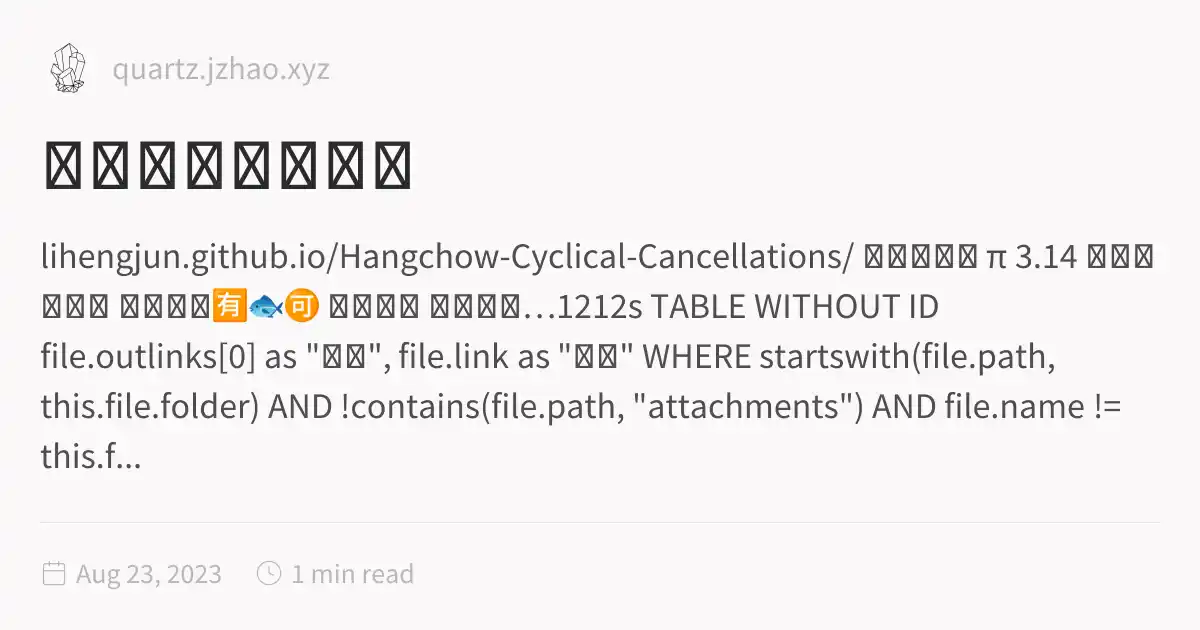
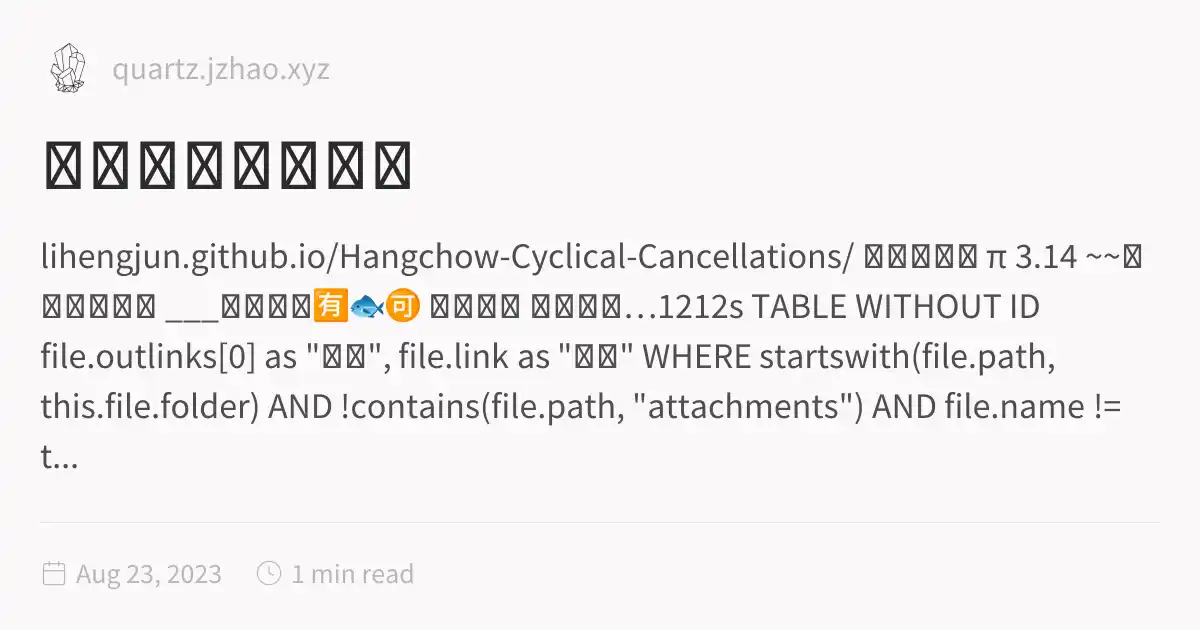
deploy: lihengjun/my-obsidian-vault@0befaab0dc9113b62a4902e7fe4200153a80474c

diff --git a/news/index.html b/news/index.html
@@ -116,6 +116,6 @@ pre:hover > .expand-button {
   padding: 0 12px;
   font-size: 14px;
 }
[2 lines of base64/hex data omitted]
 </script><script type="module">function f(i,e){if(!i)return;function r(o){o.target===this&&(o.preventDefault(),o.stopPropagation(),e())}function t(o){o.key.startsWith("Esc")&&(o.preventDefault(),e())}i?.addEventListener("click",r),window.addCleanup(()=>i?.removeEventListener("click",r)),document.addEventListener("keydown",t),window.addCleanup(()=>document.removeEventListener("keydown",t))}function y(i){for(;i.firstChild;)i.removeChild(i.firstChild)}var h=class{constructor(e,r){this.container=e;this.content=r;this.setupEventListeners(),this.setupNavigationControls(),this.resetTransform()}isDragging=!1;startPan={x:0,y:0};currentPan={x:0,y:0};scale=1;MIN_SCALE=.5;MAX_SCALE=3;cleanups=[];setupEventListeners(){let e=this.onMouseDown.bind(this),r=this.onMouseMove.bind(this),t=this.onMouseUp.bind(this),o=this.resetTransform.bind(this);this.container.addEventListener("mousedown",e),document.addEventListener("mousemove",r),document.addEventListener("mouseup",t),window.addEventListener("resize",o),this.cleanups.push(()=>this.container.removeEventListener("mousedown",e),()=>document.removeEventListener("mousemove",r),()=>document.removeEventListener("mouseup",t),()=>window.removeEventListener("resize",o))}cleanup(){for(let e of this.cleanups)e()}setupNavigationControls(){let e=document.createElement("div");e.className="mermaid-controls";let r=this.createButton("+",()=>this.zoom(.1)),t=this.createButton("-",()=>this.zoom(-.1)),o=this.createButton("Reset",()=>this.resetTransform());e.appendChild(t),e.appendChild(o),e.appendChild(r),this.container.appendChild(e)}createButton(e,r){let t=document.createElement("button");return t.textContent=e,t.className="mermaid-control-button",t.addEventListener("click",r),window.addCleanup(()=>t.removeEventListener("click",r)),t}onMouseDown(e){e.button===0&&(this.isDragging=!0,this.startPan={x:e.clientX-this.currentPan.x,y:e.clientY-this.currentPan.y},this.container.style.cursor="grabbing")}onMouseMove(e){this.isDragging&&(e.preventDefault(),this.currentPan={x:e.clientX-this.startPan.x,y:e.clientY-this.startPan.y},this.updateTransform())}onMouseUp(){this.isDragging=!1,this.container.style.cursor="grab"}zoom(e){let r=Math.min(Math.max(this.scale+e,this.MIN_SCALE),this.MAX_SCALE),t=this.content.getBoundingClientRect(),o=t.width/2,n=t.height/2,c=r-this.scale;this.currentPan.x-=o*c,this.currentPan.y-=n*c,this.scale=r,this.updateTransform()}updateTransform(){this.content.style.transform=`translate(${this.currentPan.x}px, ${this.currentPan.y}px) scale(${this.scale})`}resetTransform(){this.scale=1;let e=this.content.querySelector("svg");this.currentPan={x:e.getBoundingClientRect().width/2,y:e.getBoundingClientRect().height/2},this.updateTransform()}},C=["--secondary","--tertiary","--gray","--light","--lightgray","--highlight","--dark","--darkgray","--codeFont"],E;document.addEventListener("nav",async()=>{let e=document.querySelector(".center").querySelectorAll("code.mermaid");if(e.length===0)return;E||=await import("https://cdnjs.cloudflare.com/ajax/libs/mermaid/11.4.0/mermaid.esm.min.mjs");let r=E.default,t=new WeakMap;for(let n of e)t.set(n,n.innerText);async function o(){for(let s of e){s.removeAttribute("data-processed");let a=t.get(s);a&&(s.innerHTML=a)}let n=C.reduce((s,a)=>(s[a]=window.getComputedStyle(document.documentElement).getPropertyValue(a),s),{}),c=document.documentElement.getAttribute("saved-theme")==="dark";r.initialize({startOnLoad:!1,securityLevel:"loose",theme:c?"dark":"base",themeVariables:{fontFamily:n["--codeFont"],primaryColor:n["--light"],primaryTextColor:n["--darkgray"],primaryBorderColor:n["--tertiary"],lineColor:n["--darkgray"],secondaryColor:n["--secondary"],tertiaryColor:n["--tertiary"],clusterBkg:n["--light"],edgeLabelBackground:n["--highlight"]}}),await r.run({nodes:e})}await o(),document.addEventListener("themechange",o),window.addCleanup(()=>document.removeEventListener("themechange",o));for(let n=0;n<e.length;n++){let v=function(){let g=l.querySelector("#mermaid-space"),m=l.querySelector(".mermaid-content");if(!m)return;y(m);let w=c.querySelector("svg").cloneNode(!0);m.appendChild(w),l.classList.add("active"),g.style.cursor="grab",u=new h(g,m)},M=function(){l.classList.remove("active"),u?.cleanup(),u=null},c=e[n],s=c.parentElement,a=s.querySelector(".clipboard-button"),d=s.querySelector(".expand-button"),p=window.getComputedStyle(a),L=a.offsetWidth+parseFloat(p.marginLeft||"0")+parseFloat(p.marginRight||"0");d.style.right=`calc(${L}px + 0.3rem)`,s.prepend(d);let l=s.querySelector("#mermaid-container");if(!l)return;let u=null;d.addEventListener("click",v),f(l,M),window.addCleanup(()=>{u?.cleanup(),d.removeEventListener("click",v)})}});
 </script><script src="https://cdn.jsdelivr.net/npm/katex@0.16.11/dist/contrib/copy-tex.min.js" type="application/javascript"></script><script src="../postscript.js" type="module"></script></html>

diff --git a/other.html b/other.html
@@ -116,7 +116,7 @@ pre:hover > .expand-button {
   padding: 0 12px;
   font-size: 14px;
 }
[2 lines of base64/hex data omitted]
                 s-3.542,0.634-4.898,1.688l-7.669-7.669C16.785,10.424,17,9.74,17,9c0-2.206-1.794-4-4-4S9,6.794,9,9s1.794,4,4,4
                 c0.74,0,1.424-0.215,2.019-0.567l7.669,7.669C21.634,21.458,21,23.154,21,25s0.634,3.542,1.688,4.897L10.024,42.562
                 C8.958,41.595,7.549,41,6,41c-3.309,0-6,2.691-6,6s2.691,6,6,6s6-2.691,6-6c0-1.035-0.263-2.009-0.726-2.86l12.829-12.829

diff --git a/index.html b/index.html
@@ -1,5 +1,5 @@
 <!DOCTYPE html>
-<html lang="en"><head><title>杭州城幹支戳蓃集</title><meta charset="utf-8"/><link rel="preconnect" href="https://fonts.googleapis.com"/><link rel="preconnect" href="https://fonts.gstatic.com"/><link rel="stylesheet" href="https://fonts.googleapis.com/css2?family=Schibsted Grotesk:wght@400;700&amp;family=Source Sans Pro:ital,wght@0,400;0,600;1,400;1,600&amp;family=IBM Plex Mono:wght@400;600&amp;display=swap"/><link rel="preconnect" href="https://cdnjs.cloudflare.com" crossorigin="anonymous"/><meta name="viewport" content="width=device-width, initial-scale=1.0"/><meta name="og:site_name" content="Quartz 4"/><meta property="og:title" content="杭州城幹支戳蓃集"/><meta property="og:type" content="website"/><meta name="twitter:card" content="summary_large_image"/><meta name="twitter:title" content="杭州城幹支戳蓃集"/><meta name="twitter:description" content="lihengjun.github.io/Hangchow-Cyclical-Cancellations/ 天涯浮生录 π 3.14 了不起的问题 从来没有🈶🐟🉑 内容标题 你的内容…1212s TABLE WITHOUT ID file.outlinks[0] as &quot;图片&quot;, file.link as &quot;笔记&quot; WHERE startswith(file.path, this.file.folder) AND !contains(file.path, &quot;attachments&quot;) AND file.name != this.f..."/><meta property="og:description" content="lihengjun.github.io/Hangchow-Cyclical-Cancellations/ 天涯浮生录 π 3.14 了不起的问题 从来没有🈶🐟🉑 内容标题 你的内容…1212s TABLE WITHOUT ID file.outlinks[0] as &quot;图片&quot;, file.link as &quot;笔记&quot; WHERE startswith(file.path, this.file.folder) AND !contains(file.path, &quot;attachments&quot;) AND file.name != this.f..."/><meta property="og:image:alt" content="lihengjun.github.io/Hangchow-Cyclical-Cancellations/ 天涯浮生录 π 3.14 了不起的问题 从来没有🈶🐟🉑 内容标题 你的内容…1212s TABLE WITHOUT ID file.outlinks[0] as &quot;图片&quot;, file.link as &quot;笔记&quot; WHERE startswith(file.path, this.file.folder) AND !contains(file.path, &quot;attachments&quot;) AND file.name != this.f..."/><meta property="twitter:domain" content="quartz.jzhao.xyz"/><meta property="og:url" content="https://quartz.jzhao.xyz/index"/><meta property="twitter:url" content="https://quartz.jzhao.xyz/index"/><link rel="icon" href="./static/icon.png"/><meta name="description" content="lihengjun.github.io/Hangchow-Cyclical-Cancellations/ 天涯浮生录 π 3.14 了不起的问题 从来没有🈶🐟🉑 内容标题 你的内容…1212s TABLE WITHOUT ID file.outlinks[0] as &quot;图片&quot;, file.link as &quot;笔记&quot; WHERE startswith(file.path, this.file.folder) AND !contains(file.path, &quot;attachments&quot;) AND file.name != this.f..."/><meta name="generator" content="Quartz"/><link href="./index.css" rel="stylesheet" type="text/css" spa-preserve/><style>.expand-button {
+<html lang="en"><head><title>杭州城幹支戳蓃集</title><meta charset="utf-8"/><link rel="preconnect" href="https://fonts.googleapis.com"/><link rel="preconnect" href="https://fonts.gstatic.com"/><link rel="stylesheet" href="https://fonts.googleapis.com/css2?family=Schibsted Grotesk:wght@400;700&amp;family=Source Sans Pro:ital,wght@0,400;0,600;1,400;1,600&amp;family=IBM Plex Mono:wght@400;600&amp;display=swap"/><link rel="preconnect" href="https://cdnjs.cloudflare.com" crossorigin="anonymous"/><meta name="viewport" content="width=device-width, initial-scale=1.0"/><meta name="og:site_name" content="Quartz 4"/><meta property="og:title" content="杭州城幹支戳蓃集"/><meta property="og:type" content="website"/><meta name="twitter:card" content="summary_large_image"/><meta name="twitter:title" content="杭州城幹支戳蓃集"/><meta name="twitter:description" content="lihengjun.github.io/Hangchow-Cyclical-Cancellations/ 天涯浮生录 π 3.14 ~~了不起的问题 ___从来没有🈶🐟🉑 内容标题 你的内容…1212s TABLE WITHOUT ID file.outlinks[0] as &quot;图片&quot;, file.link as &quot;笔记&quot; WHERE startswith(file.path, this.file.folder) AND !contains(file.path, &quot;attachments&quot;) AND file.name != t..."/><meta property="og:description" content="lihengjun.github.io/Hangchow-Cyclical-Cancellations/ 天涯浮生录 π 3.14 ~~了不起的问题 ___从来没有🈶🐟🉑 内容标题 你的内容…1212s TABLE WITHOUT ID file.outlinks[0] as &quot;图片&quot;, file.link as &quot;笔记&quot; WHERE startswith(file.path, this.file.folder) AND !contains(file.path, &quot;attachments&quot;) AND file.name != t..."/><meta property="og:image:alt" content="lihengjun.github.io/Hangchow-Cyclical-Cancellations/ 天涯浮生录 π 3.14 ~~了不起的问题 ___从来没有🈶🐟🉑 内容标题 你的内容…1212s TABLE WITHOUT ID file.outlinks[0] as &quot;图片&quot;, file.link as &quot;笔记&quot; WHERE startswith(file.path, this.file.folder) AND !contains(file.path, &quot;attachments&quot;) AND file.name != t..."/><meta property="twitter:domain" content="quartz.jzhao.xyz"/><meta property="og:url" content="https://quartz.jzhao.xyz/index"/><meta property="twitter:url" content="https://quartz.jzhao.xyz/index"/><link rel="icon" href="./static/icon.png"/><meta name="description" content="lihengjun.github.io/Hangchow-Cyclical-Cancellations/ 天涯浮生录 π 3.14 ~~了不起的问题 ___从来没有🈶🐟🉑 内容标题 你的内容…1212s TABLE WITHOUT ID file.outlinks[0] as &quot;图片&quot;, file.link as &quot;笔记&quot; WHERE startswith(file.path, this.file.folder) AND !contains(file.path, &quot;attachments&quot;) AND file.name != t..."/><meta name="generator" content="Quartz"/><link href="./index.css" rel="stylesheet" type="text/css" spa-preserve/><style>.expand-button {
   position: absolute;
   display: flex;
   float: right;
@@ -118,9 +118,9 @@ pre:hover > .expand-button {
 }
[1 lines of base64/hex data omitted]
 <p>天涯浮生录</p>
-<p>π 3.14
-了不起的问题
-从来没有🈶🐟🉑</p>
+<p>π 3.14</p>
+<p>~~了不起的问题</p>
+<p>___从来没有🈶🐟🉑</p>
 <h1 id="内容标题">内容标题<a role="anchor" aria-hidden="true" tabindex="-1" data-no-popover="true" href="#内容标题" class="internal"><svg width="18" height="18" viewBox="0 0 24 24" fill="none" stroke="currentColor" stroke-width="2" stroke-linecap="round" stroke-linejoin="round"><path d="M10 13a5 5 0 0 0 7.54.54l3-3a5 5 0 0 0-7.07-7.07l-1.72 1.71"></path><path d="M14 11a5 5 0 0 0-7.54-.54l-3 3a5 5 0 0 0 7.07 7.07l1.71-1.71"></path></svg></a></h1>
 <p>你的内容…1212s</p>
 <figure data-rehype-pretty-code-figure><pre tabindex="0" data-language="dataview" data-theme="github-light github-dark"><code data-language="dataview" data-theme="github-light github-dark" style="display:grid;"><span data-line><span>TABLE WITHOUT ID</span></span>
